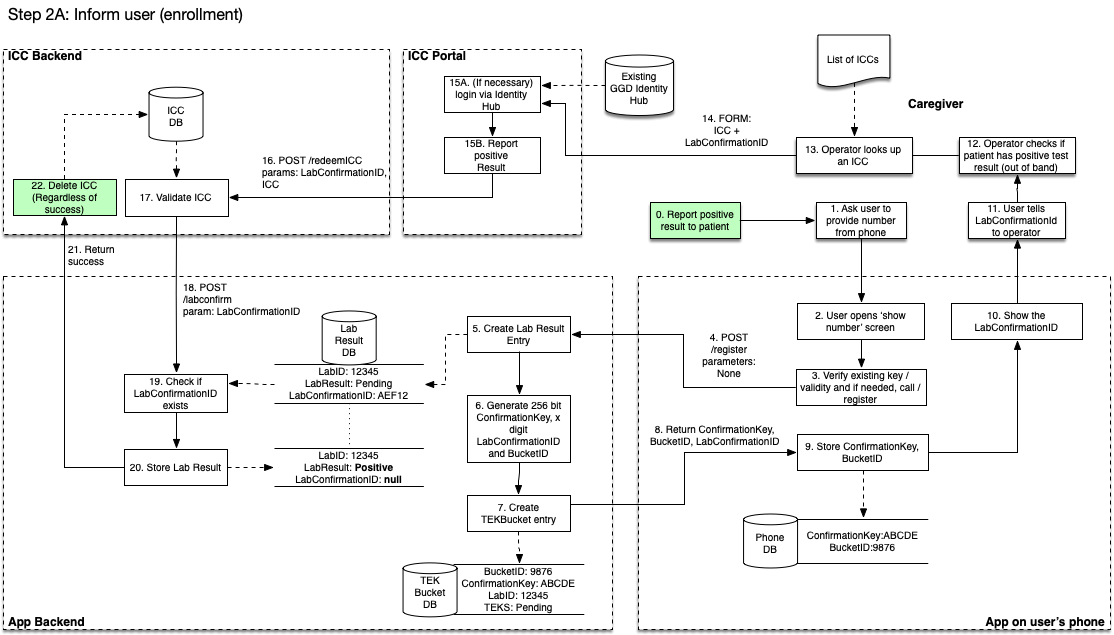
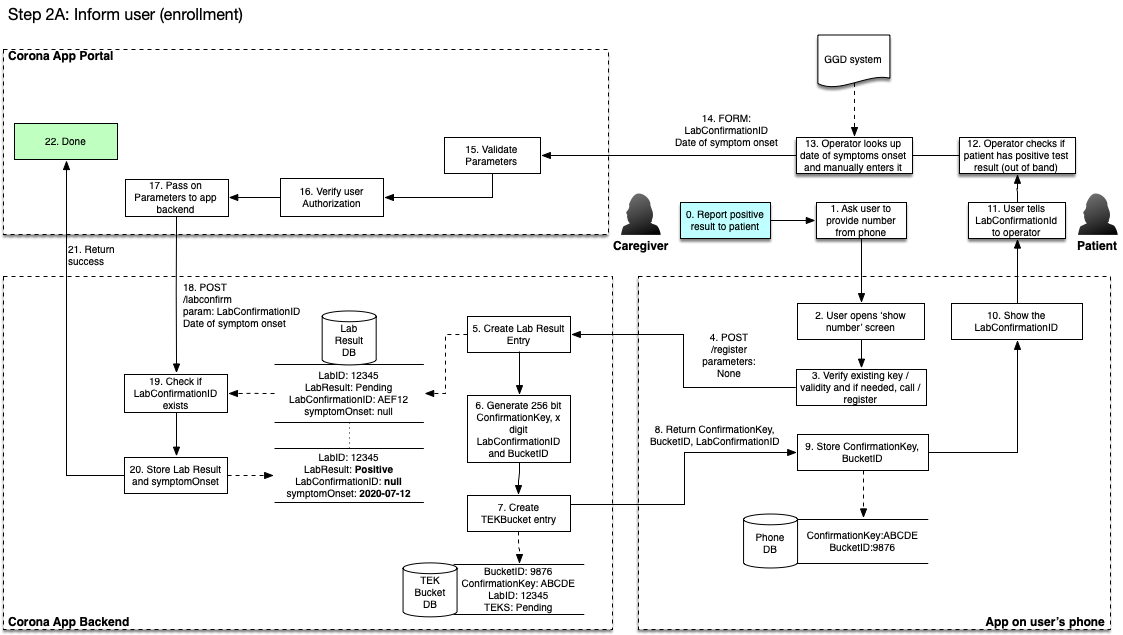
Updated variant 1 flow with 2 factor auth and removal of icc codes.

diff --git a/architecture/Solution Architecture.md b/architecture/Solution Architecture.md
@@ -248,15 +248,15 @@ The flow is designed to:
 * The low tech nature also allows to use channels such as a phone call to exchange tans.
 
 
-## Variant 1: Infection Confirmation Codes
+## Variant 1: Separate GGD portal
 
-### Phase 1: Distributing Infection Confirmation Codes
+### Phase 1: Logging in to the portal
 
-The key ingredient of Variant 1 is the use of one-time Infection Confirmation Codes. Because there is no link to the health authority system for patients that are in this flow, the responsibility is with the callcenter staff that calls the patient. They check positive status in their respective systems and using a web portal, they confirm an infection for this patient. Note that this is an extremely privacy friendly flow because the app backend has zero ties to any real lab result or personal data. There simply is no personal patient data anywhere in the lab backend (privacy by design).
+The key ingredient of Variant 1 is the use of a separate portal to confirm infections. Because there is no link to the health authority system for patients that are in this flow, the responsibility is with the callcenter staff that calls the patient. They check positive status in their respective systems and using a web portal, they confirm an infection for this patient. Note that this is an extremely privacy friendly flow because the app backend has zero ties to any real lab result or personal data. There simply is no personally identifiable patient data anywhere in the lab backend (privacy by design).
 
-The following data flow diagram depicts how one time ICC codes are generated in batches and distributed to health authority call centers. The person distributing the codes can be the local call center manager, or the central authorities, in the case where the patients aren't called by health authority callcenters but by their own physician/hospital (this case is rare). Authentication to the portal will happen through an existing Identity Hub at GGD.
+The following data flow diagram depicts how a user will authenticate with the portal.
 
-![Phase 1: Distributing Infection Confirmation Codes to health authority callcenters](images/variant1_step1_iccdistribution.png)
+![Phase 1: Logging in to the portal](images/variant1_step1_authentication.png)
 
 ### Phase 2, step A: Calling the patient and exchanging a key
 
